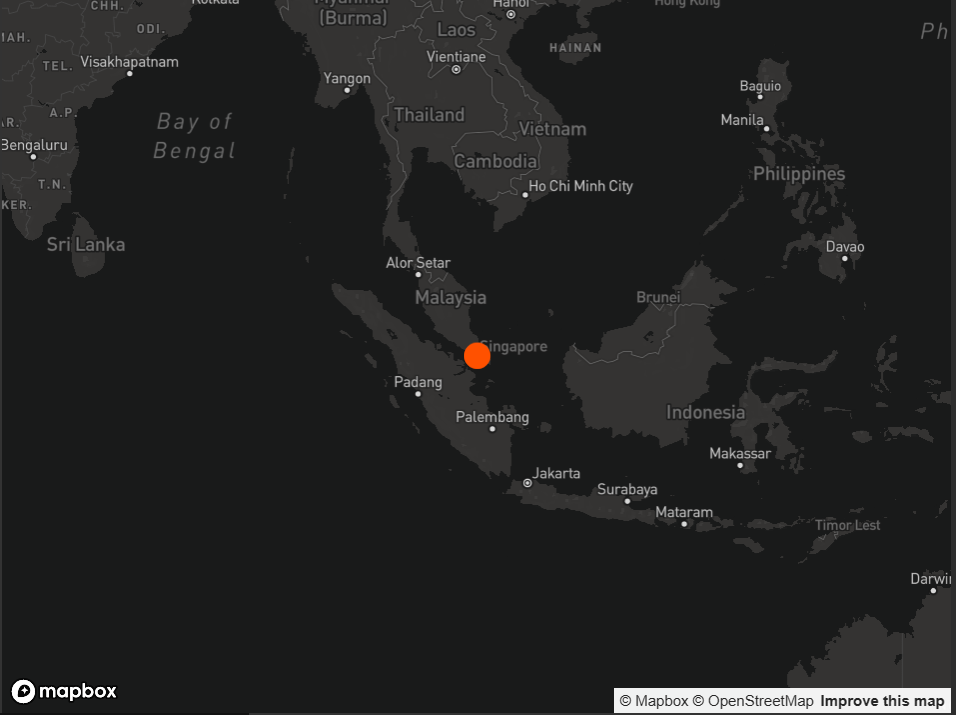
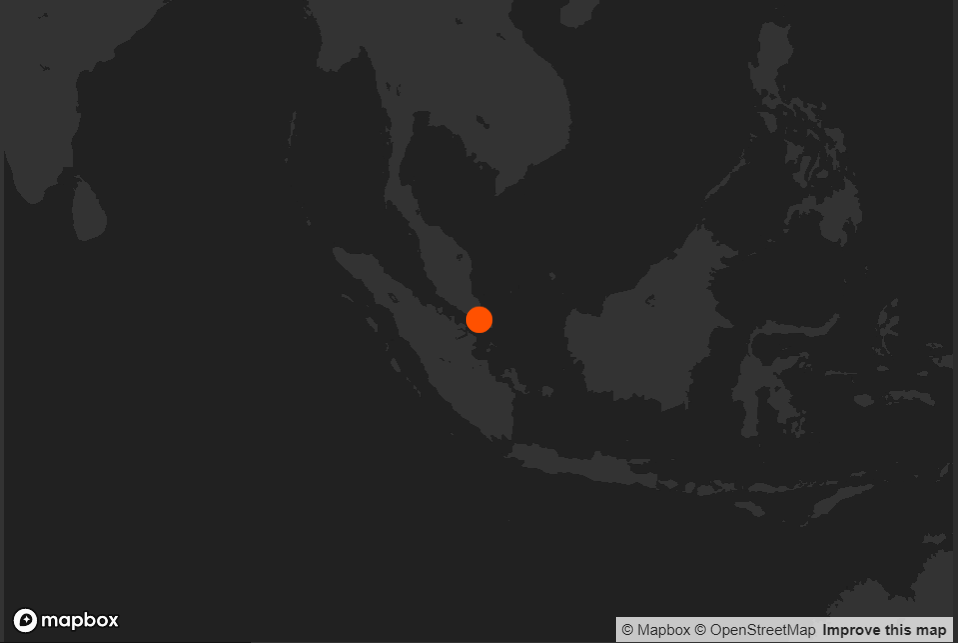
Fixed Contact Map Bug

diff --git a/components/Contact/contact.html b/components/Contact/contact.html
@@ -6,10 +6,10 @@
             <div class="absolute w-full h-full top-0 left-0 block bg-black bg-opacity-40">
                 <div class="px-10 py-10 text-xs text-right text-brand-thumb">
                     <ul class="list-none">
-                        <li class="cursor-pointer" @click="onClickchangeCity('singapore')" :class="cityName === 'singapore' ? 'text-brand-orange' : ''">SINGAPORE</li>
-                        <li class="mt-3 cursor-pointer" @click="onClickchangeCity('malaysia')" :class="cityName === 'malaysia' ? 'text-brand-orange' : ''">MALAYSIA</li>
-                        <li class="mt-3 cursor-pointer" @click="onClickchangeCity('vietnam')" :class="cityName === 'vietnam' ? 'text-brand-orange' : ''">VIETNAM</li>
-                        <li class="mt-3 cursor-pointer" @click="onClickchangeCity('myanmar')" :class="cityName === 'myanmar' ? 'text-brand-orange' : ''">MYANMAR</li>
+                        <li class="cursor-pointer" @click="onClickchangeCity('singapore')" :class="cityName.toLowerCase() === 'singapore' ? 'text-brand-orange' : ''">SINGAPORE</li>
+                        <li class="mt-3 cursor-pointer" @click="onClickchangeCity('malaysia')" :class="cityName.toLowerCase() === 'malaysia' ? 'text-brand-orange' : ''">MALAYSIA</li>
+                        <li class="mt-3 cursor-pointer" @click="onClickchangeCity('vietnam')" :class="cityName.toLowerCase() === 'vietnam' ? 'text-brand-orange' : ''">VIETNAM</li>
+                        <li class="mt-3 cursor-pointer" @click="onClickchangeCity('myanmar')" :class="cityName.toLowerCase() === 'myanmar' ? 'text-brand-orange' : ''">MYANMAR</li>
                     </ul>
                 </div>
                 <div class="relative mt-24 pl-4">

diff --git a/components/Map.vue b/components/Map.vue
@@ -12,7 +12,7 @@ export default {
   // use environment variable later on
   data () {
     return {
-      accessToken: 'pk.eyJ1IjoiYWZhdGlyIiwiYSI6ImNreWJtaWg1cjBna2cyeG9mZjNsNGc3ZjQifQ._cgXfiK-9djLaT6iZImvKw',
+      accessToken: 'pk.eyJ1Ijoib25nLW9uZy0zNjAtY29uc3VsdGFuY3kiLCJhIjoiY2t5OGNqamhlMWR3azJ4b245bnFyYmEzMiJ9.1hdM9q9jIV57BTQLaXckQw',// 'pk.eyJ1Ijoib25nLW9uZy0zNjAtY29uc3VsdGFuY3kiLCJhIjoiY2t5OGNqamhlMWR3azJ4b245bnFyYmEzMiJ9.1hdM9q9jIV57BTQLaXckQw', // 'pk.eyJ1IjoiYWZhdGlyIiwiYSI6ImNreWJtaWg1cjBna2cyeG9mZjNsNGc3ZjQifQ._cgXfiK-9djLaT6iZImvKw',
       map: {},
       city: this.selectedCity,
       locatonCordinate: {
@@ -37,7 +37,7 @@ export default {
       mapboxgl.accessToken = this.accessToken
       this.map = new mapboxgl.Map({
         container: 'map',
-        style: 'mapbox://styles/mapbox/dark-v10',
+        style: 'mapbox://styles/ong-ong-360-consultancy/cksfj9ozy2ozj17nu0ukvjstq',
         zoom: 3.25,
         center: [103.808052586332, 1.3516161224392]
       })

diff --git a/components/Contact/contact.ts b/components/Contact/contact.ts
@@ -16,7 +16,7 @@ export default class Contact extends Vue {
   // @Prop({ default: 'singapore' }) city !: string
   @Prop({ default!: null }) officeModel: any
   @Prop({ default!: null }) offices: any
-  cityName = ''
+  cityName = 'Singapore'
   cityImg = require('~/assets/img/singapore.png')
 
   created () {
@@ -28,7 +28,7 @@ export default class Contact extends Vue {
 
   onClickchangeCity (cityName: string) {
     this.cityName = cityName
-    this.cityImg = require(`~/assets/img/${cityName}.png`)
+    this.cityImg = require(`~/assets/img/${cityName.toLowerCase()}.png`)
     this.$emit('getOfficeByName', cityName)
   }
 

diff --git a/nuxt.config.js b/nuxt.config.js
@@ -12,7 +12,8 @@ export default {
     ],
     link: [
       { rel: 'icon', type: 'image/x-icon', href: '/favicon.ico' },
-      { rel: 'stylesheet', href: 'https://api.mapbox.com/mapbox-gl-js/v2.3.1/mapbox-gl.css' }
+      { rel: 'stylesheet', href: 'https://api.mapbox.com/mapbox-gl-js/v2.3.1/mapbox-gl.css' },
+      { rel: 'author', href: 'humans.txt' }
     ]
   },
 
